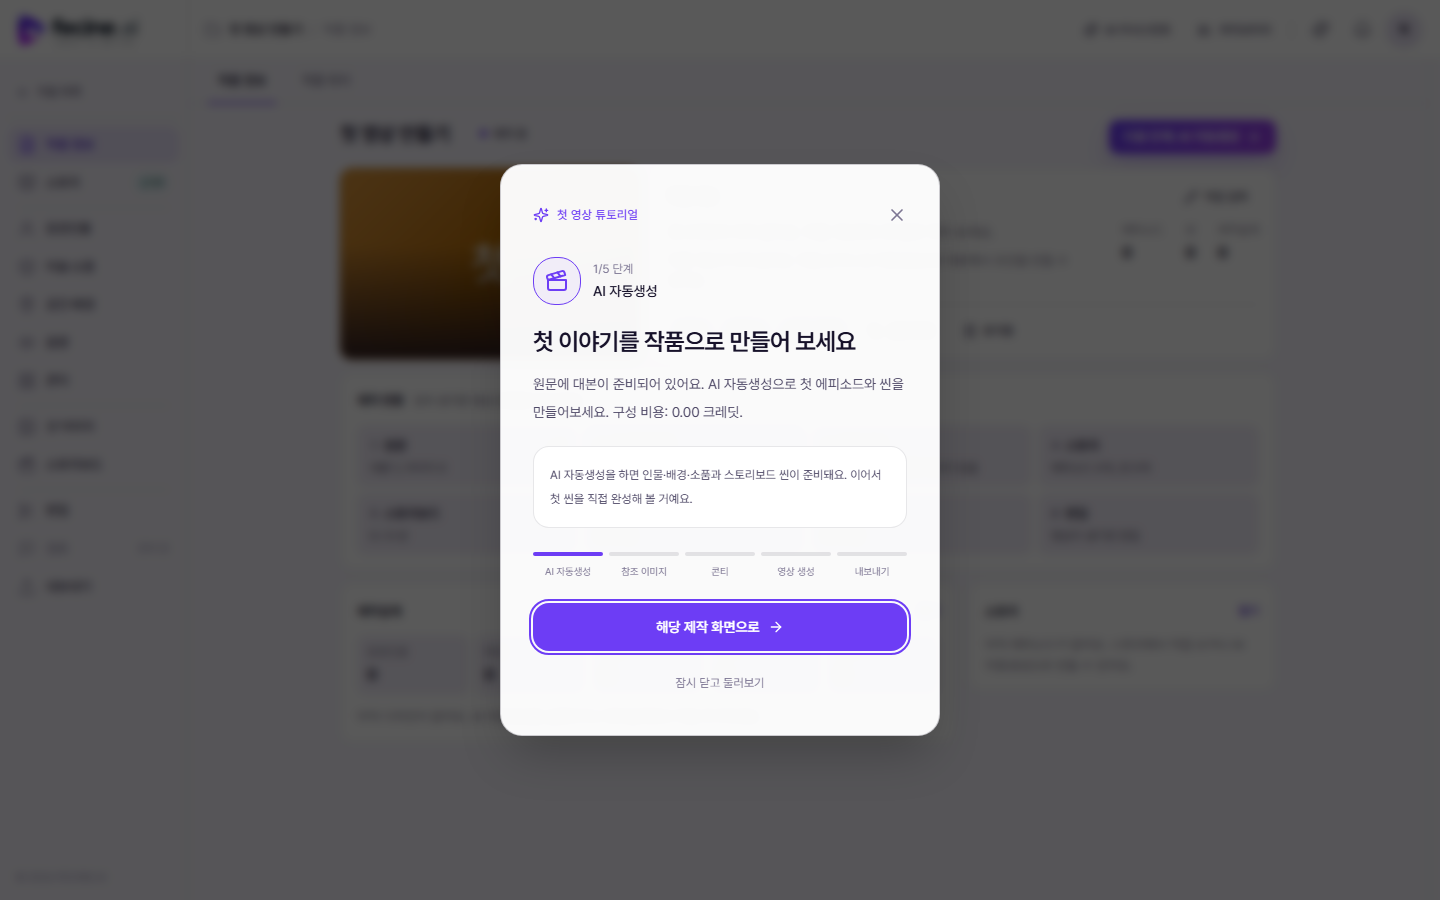
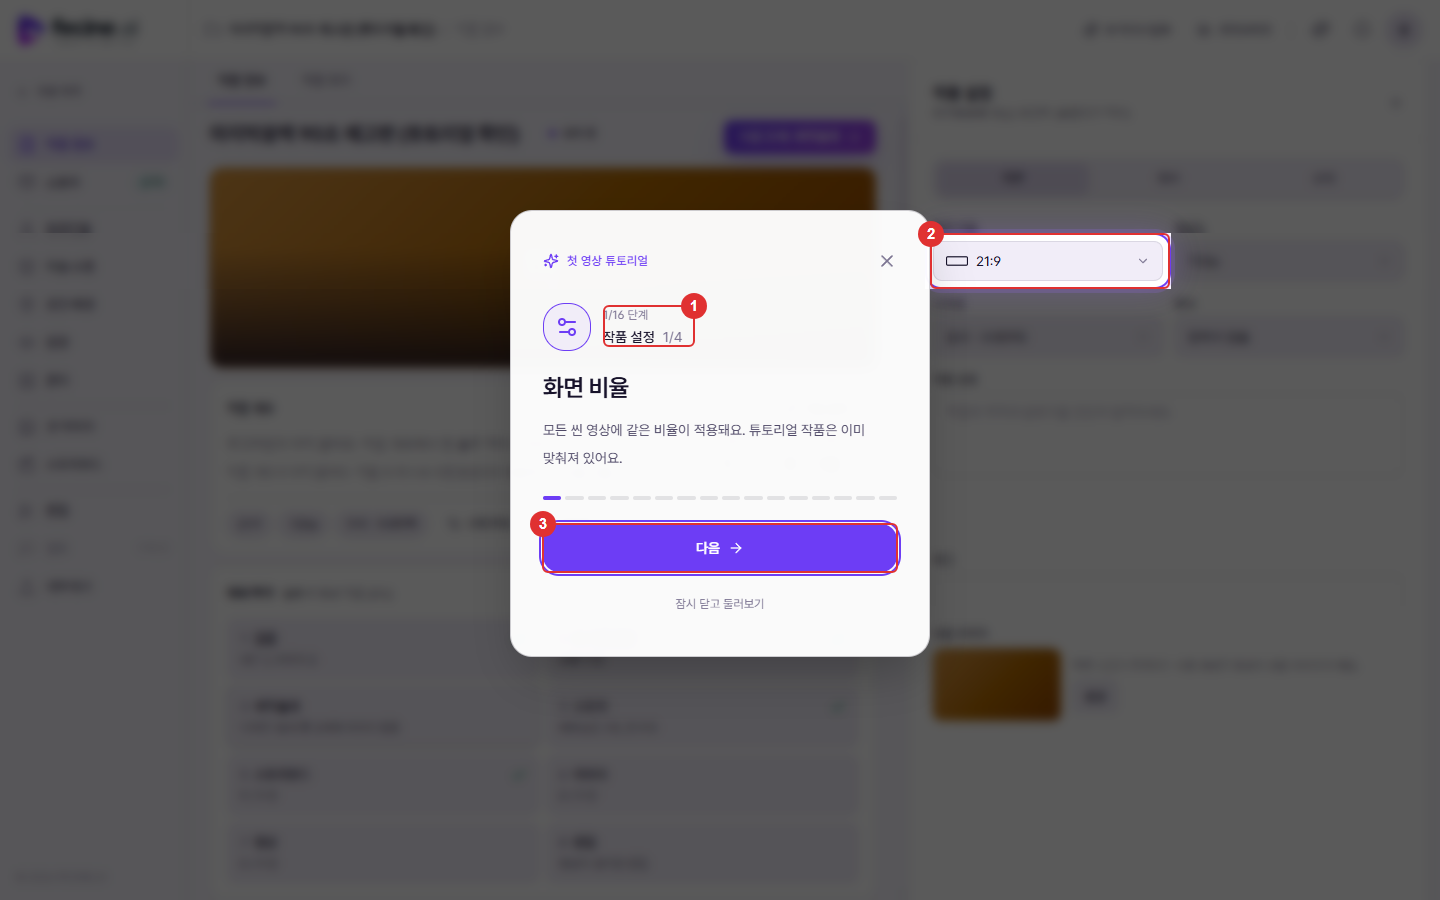
교재를 FECINE v1.93.0 첫 영상 튜토리얼에 맞게 갱신 (5단계 → 16단계) (#4)
- 15장: 튜토리얼을 16단계(공개 캐릭터가 없으면 15단계)로 다시 씀. 단계마다 안내 카드 한 번,
  설명 카드와 직접 해 보는 단계의 구분, 공개 캐릭터는 주인공 한 명, 참조 이미지는 첫 이미지 하나,
  화면 아래 가운데 진행 알림으로 안내 다시 열기. 연습·비용·실패 표·확인 문제 수정
- 실습 4: A 경로(튜토리얼) 단계 목록과 학습 계획·비용·확인 문제 수정
- 흐름 안내·1부 소개·용어집·강사 가이드의 "5단계" 표현 수정
- 캡처: 05-01 교체(1/16 작품 설정), 05-02~05-05 추가(작품 정보, 작품 위키 설명 카드, 참조 이미지 카드, 진행 알림). 운영 화면 1440x900, 빨간 번호 표시
- 검증 현황·버전 이력 갱신(튜토리얼 부분만 v1.93.0 확인, 나머지는 v1.82.0 확인본 유지)

diff --git a/docs/about/versions.md b/docs/about/versions.md
@@ -27,6 +27,7 @@ FECINE이 업데이트되어 화면이 바뀌면, 바뀐 장과 [부록 A·D](/v
 
 | 날짜 | 교재 | FECINE 기준 | 변경 |
 | --- | --- | --- | --- |
+| 2026-11-15 | V1 1.0.0-preview | 튜토리얼 부분만 v1.93.0 | 첫 영상 튜토리얼 화면 반영: 5단계가 16단계(공개 캐릭터가 없으면 15단계)로 바뀌고, 단계마다 안내 카드가 한 번만 뜨며, 작품 설정·작품 정보·작품 위키·AI 어시스턴트·미술·소품·공간·배경·음향·샷 이미지·스토리보드·편집의 설명 카드가 생김. 공개 캐릭터는 주인공 한 명만 추가·연결, 참조 이미지는 공개 캐릭터가 아닌 첫 이미지 하나만 만들면 다음으로 진행. 닫은 안내는 화면 아래 가운데 진행 알림으로 다시 엶. 15장·실습 4·흐름 안내·용어집·강사 가이드 수정, 캡처 05-01 교체와 05-02~05-05 추가(운영 화면 촬영). 튜토리얼 외의 장은 v1.82.0 확인본 그대로 |
 | 2026-11-10 | V1 1.0.0-preview | v1.74.0 → v1.82.0 | FECINE 서비스 변경 반영: 스토리 화면 탭(`스토리 편집`·`작품 자료`·`진행 상황`)과 스토리·샷 이미지·스토리보드의 공통 화면(`S#n` 씬 목록, `등장 요소`·`스토리` 탭), AI 어시스턴트의 단계별 요청(`에피소드·씬 추출`·`등장 요소 만들기`·`촬영 설계 만들기`·`씬 추가`), 모델 목록의 가격 순 정렬·경로(Standard·Enterprise·Global)·공식가 할인·모델 팁, 생성 버튼 `생성 · 예상 크레딧`, 새 작품의 작품 설정 패널, 로그인 사이드바 순서, 5개 언어, 크레딧 충전 2단계 패널·FEPAY 결제, 참조 이미지 자동 맞춤, 내보내기 파일 이름·편집 프로젝트 설명. 없어진 기능(대사에서 자막 자동 생성, 다음 프레임 후보 버튼, 옛 결제) 설명 삭제. 새 **실습 4 프리소스 원작으로 만드는 영상**(원작 소설·첫 영상 튜토리얼, 공개 캐릭터를 작품에 추가해 사용) 추가. 옛 화면 캡처는 다시 찍을 때까지 유지 |
 | 2026-11-11 | V1 1.0.0-preview | v1.82.0 | 캡처 보강: 채널 게시(30장), AI 작업(32장), 캐릭터 시트(22장)와 실습 4의 프리소스·공개 캐릭터 추가 화면 추가. 캡처의 요금·구성 비용은 촬영 환경 값이며 본문 요금은 모델·가격 페이지 기준 |
 | 2026-11-06 | V1 1.0.0-preview | v1.38.0 → v1.74.0 | FECINE 서비스 변경 반영: 화면 용어 통일(회차 → 에피소드, 장면 → 씬, 원고 → 씬 대본, AI 구성 → `스토리`의 `✦ AI 자동생성` 탭, 장면 프레임 → 샷 이미지, 작품 안 캐릭터 → 등장인물, 오디오 → 음향), 제작 메뉴 12개와 새 공개 홈·사이드 메뉴, 작품 위키·씬 합치기/나누기/옮기기·연출 노트·등장 요소·앞 씬과 이어짐, 스토리보드의 영상 프롬프트 만들기, `크레딧 · 사용량` 화면, Seedance Global·Kling v3·Wan Global 모델 정보. 없어진 기능(템플릿으로 저장, 내보내기 화면 맞춤, 편집 화면 클립 다운로드, 개인 캐릭터 라이브러리) 설명 삭제. 옛 화면 캡처는 다시 찍을 때까지 유지 |

diff --git a/docs/about/verification.md b/docs/about/verification.md
@@ -21,7 +21,7 @@ revised: "2026-11-10"
 | 위치 | 확인할 내용 |
 | --- | --- |
 | [12장](/v1/chapters/12-choosing-models) 캡처 19-01 | 모델 탭 화면 |
-| [15장](/v1/chapters/15-login-and-tour) | 새 스튜디오에 튜토리얼 작품이 있는지, 캡처 05-01 튜토리얼 안내 카드 화면 |
+| [15장](/v1/chapters/15-login-and-tour) | 새 스튜디오에 튜토리얼 작품이 있는지, 캡처 05-01~05-05 튜토리얼 안내 카드·진행 알림 화면 |
 | [18장](/v1/chapters/18-ai-writing) | `AI로 장면 나누기` 버튼 위치 |
 | [22장](/v1/chapters/22-character-sheets) 캡처 12-01 | 캐릭터 시트 화면 |
 | [29장](/v1/chapters/29-subtitles-music-cards) | 저장한 편집본을 다시 여는 방법 |
@@ -32,8 +32,9 @@ revised: "2026-11-10"
 
 | 상태 | 캡처 |
 | --- | --- |
-| 교체 완료 (v1.82.0 화면, 2026-11-11 촬영) | 01-01~01-03, 03-01, 04-01, 04-03, 04-04, 05-01, 06-01~06-03, 07-01, 07-02, 08-00, 08-01, 09-01, 09-02, 12-01, 13-01, 15-01, 16-01, 18-01, 19-01, 20-02, 23-01, 25-01, 27-02, 29-01, 29-02, 30-01, 30-01b, 31-01, 32-01 |
-| 캡처 준비 중 | 실습 4의 튜토리얼 2/5 카드(로컬 튜토리얼이 테스트 대본이라 운영 튜토리얼에서 촬영 필요) |
+| 교체 완료 (v1.82.0 화면, 2026-11-11 촬영) | 01-01~01-03, 03-01, 04-01, 04-03, 04-04, 06-01~06-03, 07-01, 07-02, 08-00, 08-01, 09-01, 09-02, 12-01, 13-01, 15-01, 16-01, 18-01, 19-01, 20-02, 23-01, 25-01, 27-02, 29-01, 29-02, 30-01, 30-01b, 31-01, 32-01 |
+| 교체 완료 (v1.93.0 운영 화면, 2026-11-15 촬영) | 05-01(1/16 작품 설정), 05-02~05-05(작품 정보·작품 위키 설명 카드·참조 이미지 카드·진행 알림) 추가 |
+| 캡처 준비 중 | 튜토리얼 3/16 `AI 자동생성` 카드(작품을 구성하기 전에만 나타남), 6/16 `공개 캐릭터` 카드(캐릭터를 이미 넣은 작품에서는 나타나지 않음) |
 | 게시 (실제 서비스 화면과 대조 확인 필요) | 01-01 ~ 25-01 중 위를 뺀 나머지 |
 
 ## 4. 생성 결과 (자료 준비 중)

diff --git a/docs/v1/about/flow.md b/docs/v1/about/flow.md
@@ -2,8 +2,8 @@
 title: "FECINE 제작 흐름"
 description: "어느 입구로 시작해도 영상은 스토리보드에서 만들어집니다"
 status: "published"
-serviceVersion: "1.82.0"
-revised: "2026-11-10"
+serviceVersion: "1.93.0"
+revised: "2026-11-15"
 ---
 # FECINE 제작 흐름
 
@@ -26,4 +26,4 @@ revised: "2026-11-10"
 9. **편집** — `스토리보드 순서로 자동 배치` → 트림·전환·자막·BGM → `편집본 저장` → `내보내기`.
 10. **내보내기** — `출력 프리셋` 선택 → `렌더 시작`(브라우저 탭을 닫지 않음) → `영상 다운로드`. 다른 편집 프로그램에서 마무리하려면 `편집 프로젝트 (프리미어·다빈치)`를 받습니다.
 
-새 사용자에게는 작품 목록의 `첫 영상 튜토리얼` 카드(`환영해요`)에서 `튜토리얼 시작 / 이어하기`로 5단계 튜토리얼(`AI 자동생성` → `참조 이미지` → `콘티` → `영상 생성` → `내보내기`)이 안내되므로, 교재 PART 02는 이 튜토리얼 작품으로 첫 실습을 하도록 구성했습니다.
+새 사용자에게는 작품 목록의 `첫 영상 튜토리얼` 카드(`환영해요`)에서 `튜토리얼 시작 / 이어하기`로 16단계 튜토리얼(작품 설정·작품 정보부터 `AI 자동생성` → `참조 이미지` → `콘티` → `영상 생성` → `내보내기`까지, 중간에 기능 설명 카드가 끼어 있고 직접 하는 단계는 6곳)이 안내되므로, 교재 PART 02는 이 튜토리얼 작품으로 첫 실습을 하도록 구성했습니다.

diff --git a/docs/v1/appendix/c-glossary.md b/docs/v1/appendix/c-glossary.md
@@ -69,7 +69,7 @@ revised: "2026-11-10"
 | 제작 모듈 | 작품을 열면 왼쪽에 보이는 제작 단계 메뉴 12개(작품정보 · 스토리 · 등장인물 … 스토리보드 · 편집 · 검토 · 내보내기) | 14 |
 | 템플릿 | FECINE이 기본으로 제공하는 작품 틀 5개(예: 30초 제품 광고). 내 작품을 템플릿으로 저장하는 기능은 없음 | 16, 실습 2 |
 | 프리소스 | 쓸 수 있게 공개된 원작 이야기. 원작 소설과 첫 영상 튜토리얼이 있습니다 | 16, 실습 3, 실습 4 |
-| 튜토리얼 | 준비된 이야기로 제작 흐름을 한 번 체험하는 연습 작품 | 15 |
+| 튜토리얼 | 준비된 이야기로 제작 흐름을 한 번 체험하는 연습 작품. 단계마다 안내 카드가 한 번 뜨고, 기능 설명 카드와 직접 해 보는 단계로 이뤄집니다 | 15 |
 | 작품 | 하나의 영상 프로젝트 | 16 |
 | 작품 위키 | 작품 공통 정보(작품 개요 · 등장인물 · 장소 · 세계관 · 소품 · 용어집 · 프롬프트 규칙 · 연속성 메모)를 모은 문서. 작품정보 화면의 `작품 위키` 탭에 있고, 모든 AI 요청이 먼저 읽음 | 16 |
 | 원문 | AI 자동생성에 넣는 대본·소설 같은 원본 글(옛 이름 ‘작품 자료’) | 19 |

diff --git a/docs/v1/instructor/index.md b/docs/v1/instructor/index.md
@@ -36,7 +36,7 @@ revised: "2026-11-10"
 | --- | --- | --- | --- |
 | 0:00–0:15 | AI 영상 제작 개념, 홈페이지 제작 흐름 | 1장, 14장 | ‘긴 영상 = 짧은 씬의 연결’을 먼저 각인 |
 | 0:15–0:30 | 로그인, 기본 화면, 크레딧 확인 | 15장, 13장 | 전원이 `크레딧 잔액`을 확인한 뒤 다음으로 |
-| 0:30–1:20 | 튜토리얼 작품 5단계 따라 하기 <Badge type="warning" text="튜토리얼 제공 여부 확인 필요" /> | 15장 | 생성 대기 중 `AI 작업`으로 진행 상황 보는 법 설명 |
+| 0:30–1:20 | 튜토리얼 작품 16단계 따라 하기 <Badge type="warning" text="튜토리얼 제공 여부 확인 필요" /> | 15장 | 생성 대기 중 `AI 작업`으로 진행 상황 보는 법 설명 |
 | 1:20–1:45 | 편집에서 씬 잇기, 내보내기 | 28, 30장 | 렌더 중 탭을 닫지 않도록 반복 안내 |
 | 1:45–2:00 | 실패 사례 공유, 질의응답, 다음 학습 안내 | 32장 | 남은 크레딧으로 할 수 있는 과제 제시 |
 
